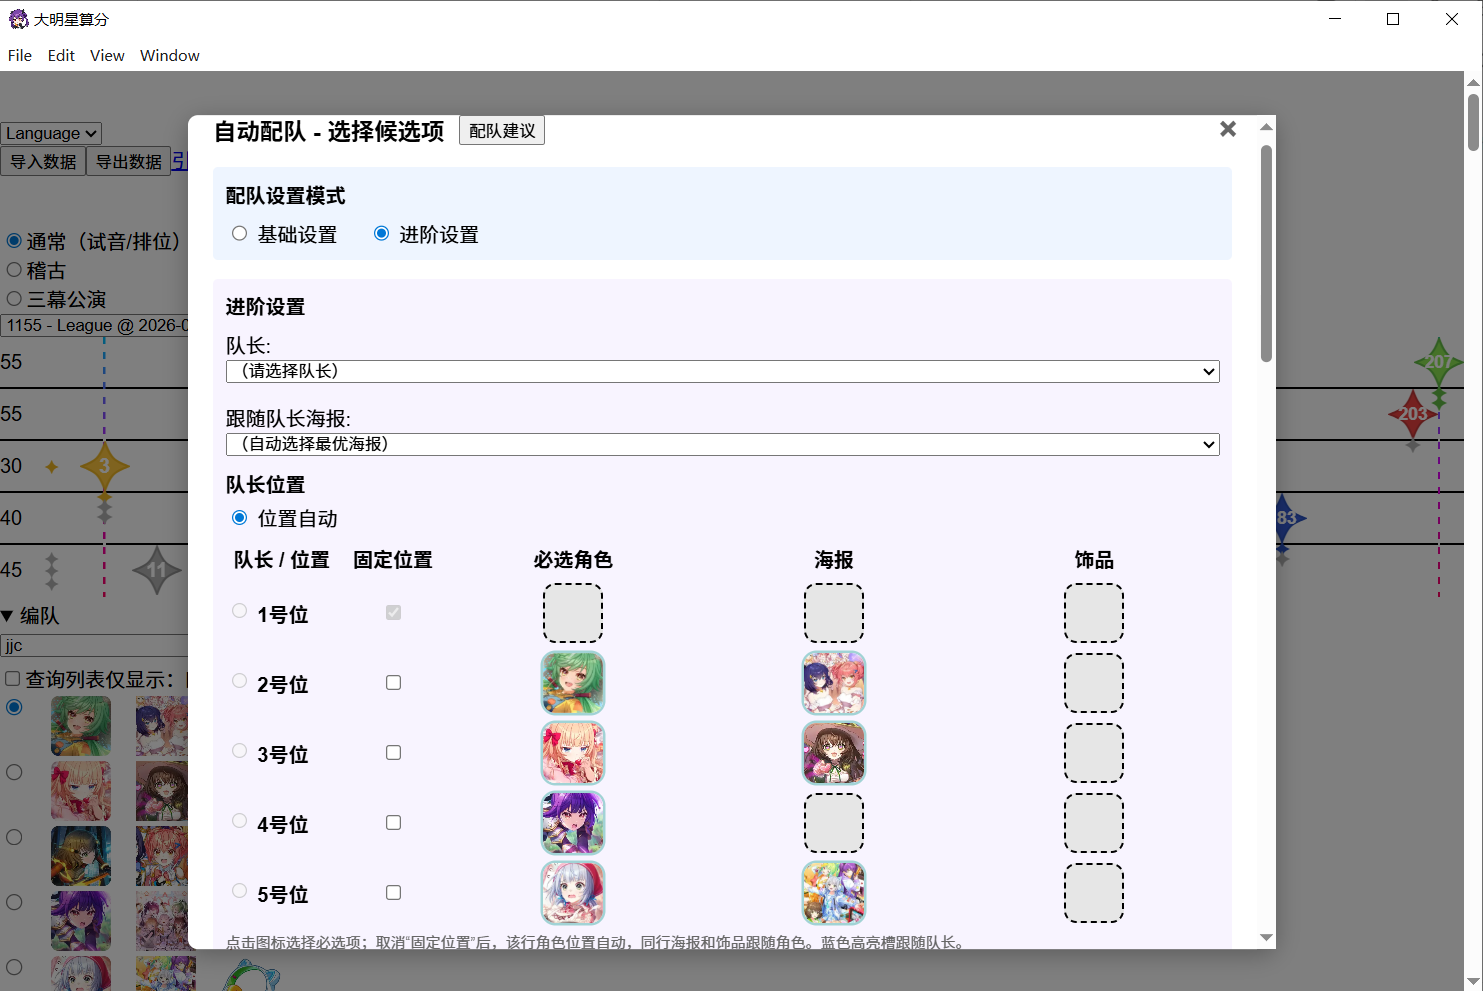
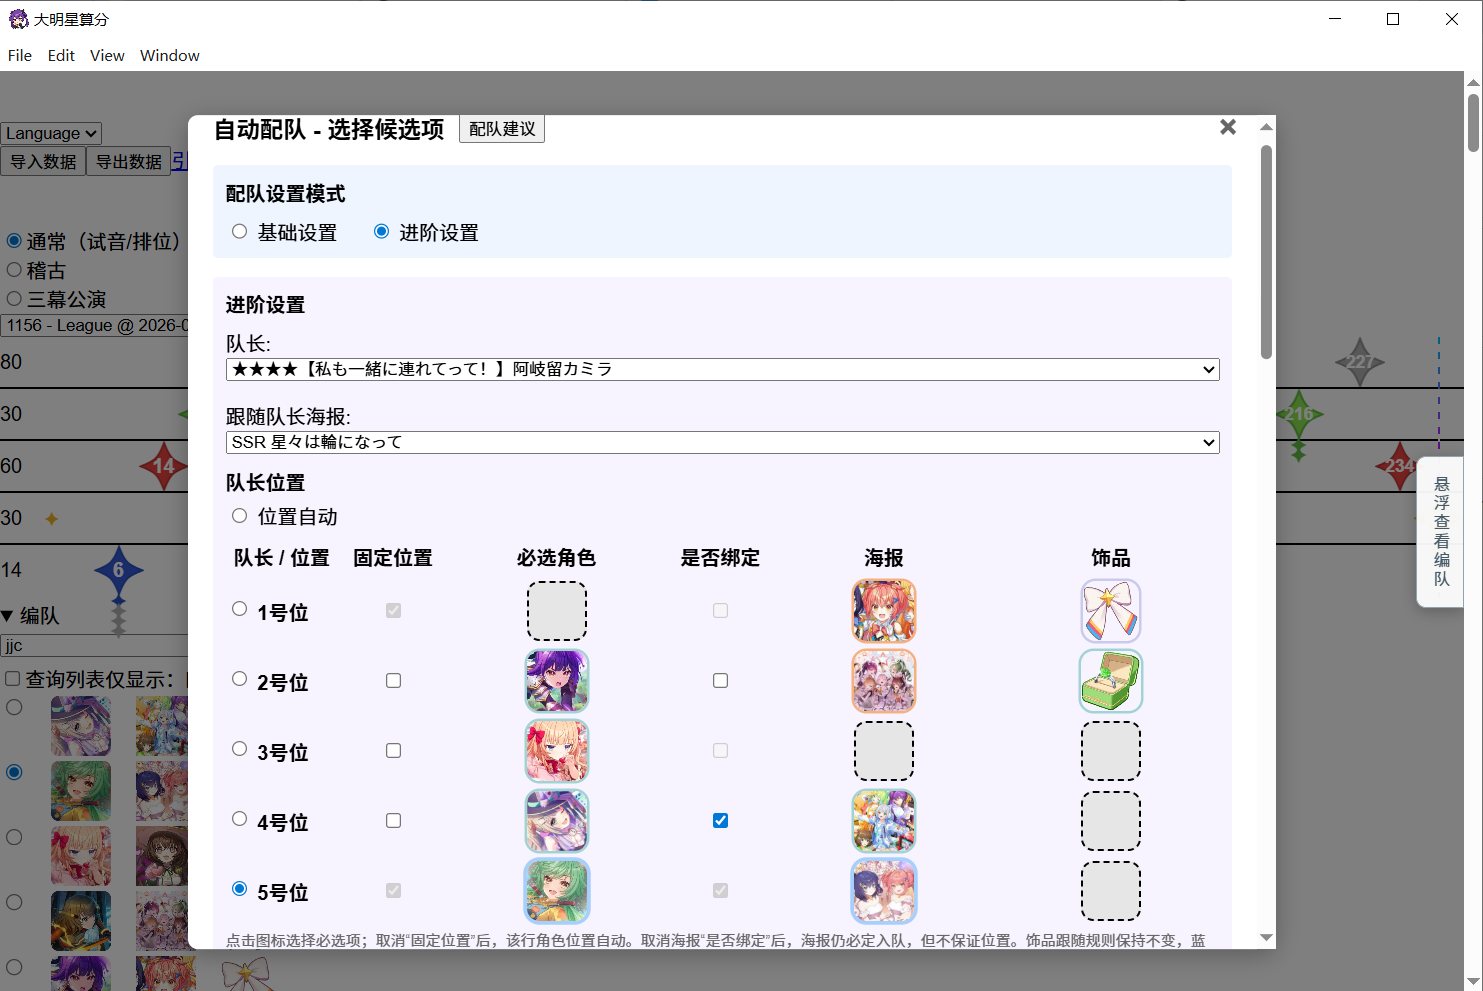
feat: 扩展输出控制信息, 以提示当前遍历进度

diff --git a/src/ActorFormation.py b/src/ActorFormation.py
@@ -209,6 +209,7 @@ class CheckUnrepeated:
                         queue_next.append(state_bot)
             queue = queue_next
         print(f"cost time {time.time() - stime}s in {len(queue)} solutions")
+        print(json.dumps({"type": "character_total", "num": len(queue)}), flush=True)
         return queue
 
     def processor_poster(self, clist, solutions):
@@ -282,6 +283,7 @@ class CheckUnrepeated:
             res_bot[5:10] = list(q)
             self._result_poste.append(tuple(res_bot))
         print(f"cost time {time.time() - stime}s in {len(queue)} solutions")
+        # print(json.dumps({"type": "poster_total", "total": len(queue)}), flush=True)
         return self._result_poste
 
 
@@ -332,8 +334,7 @@ def automatic_formation(
                                              userdata)
     print(f"check characters...")
     result_c = checker.processor_character(c_cache)
-    # put_count = 0
-    for r in result_c:
+    for i, r in enumerate(result_c):
         print(f"check posters...")
         # print(r)
         checker.urp_filter_p(r, mandatory_posters)
@@ -347,8 +348,9 @@ def automatic_formation(
                 pipeline_queue.put({"Result": result, "CharacterBaseMasterId": charb_id}),
                 loop
             )
+        print(json.dumps({"type": "character_now", "num": i+1}), flush=True)
         #     put_count += 1
-        #     if put_count % 100 == 0:
+        #     if (i+1) % 100 == 0:
         #         print(f"put {put_count} items into queue, queue size {pipeline_queue.qsize()}")
     if pipeline_queue is not None:
         asyncio.run_coroutine_threadsafe(pipeline_queue.put(None), loop)
